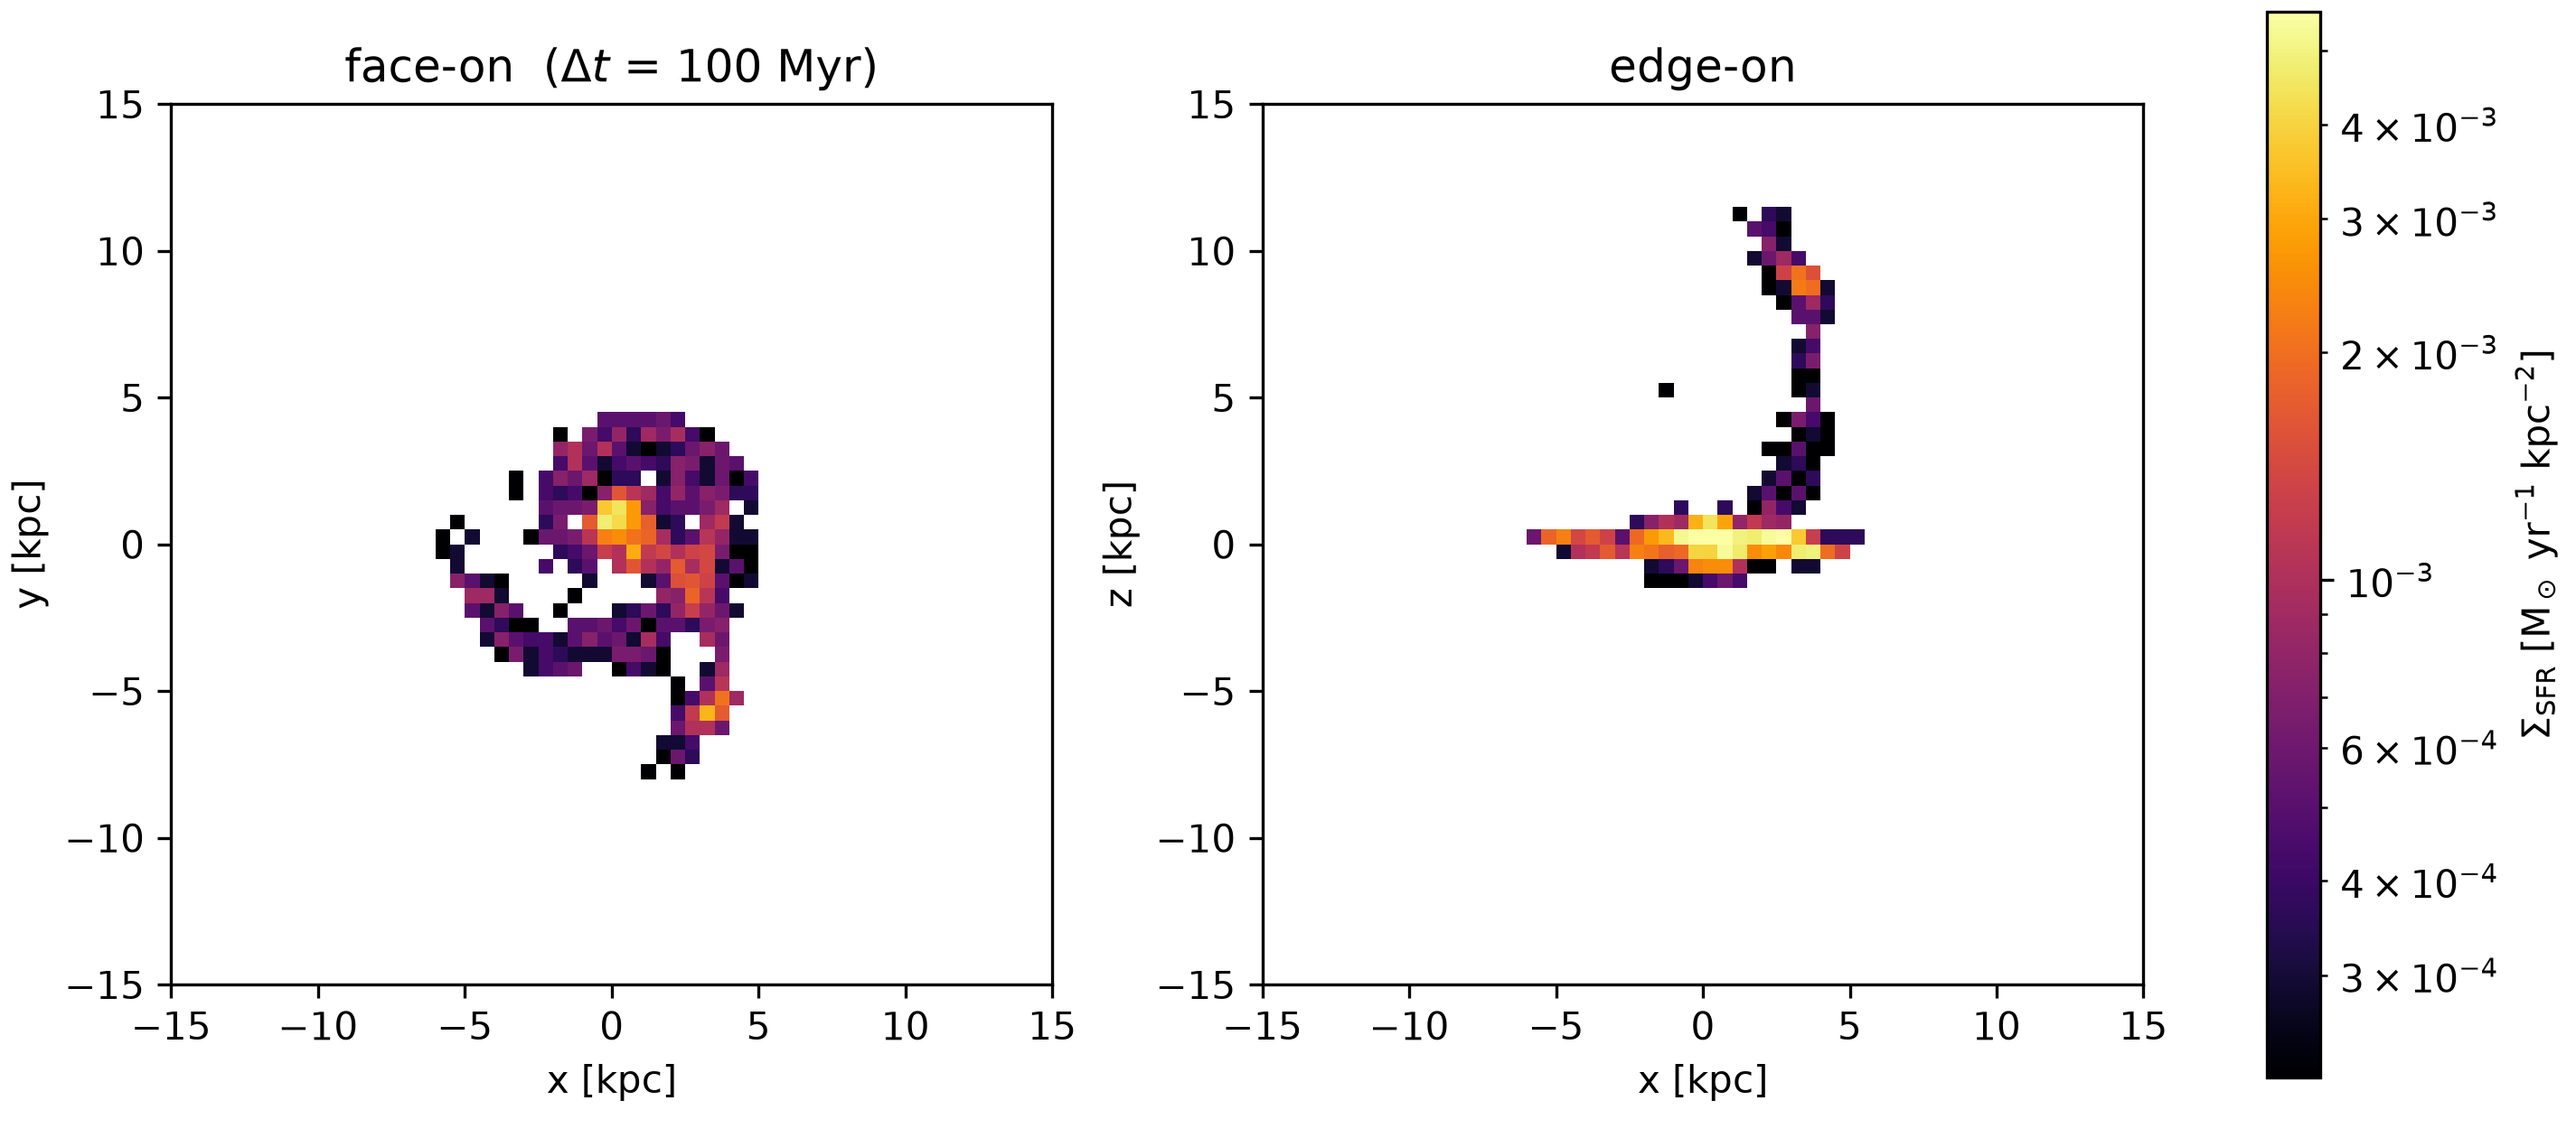
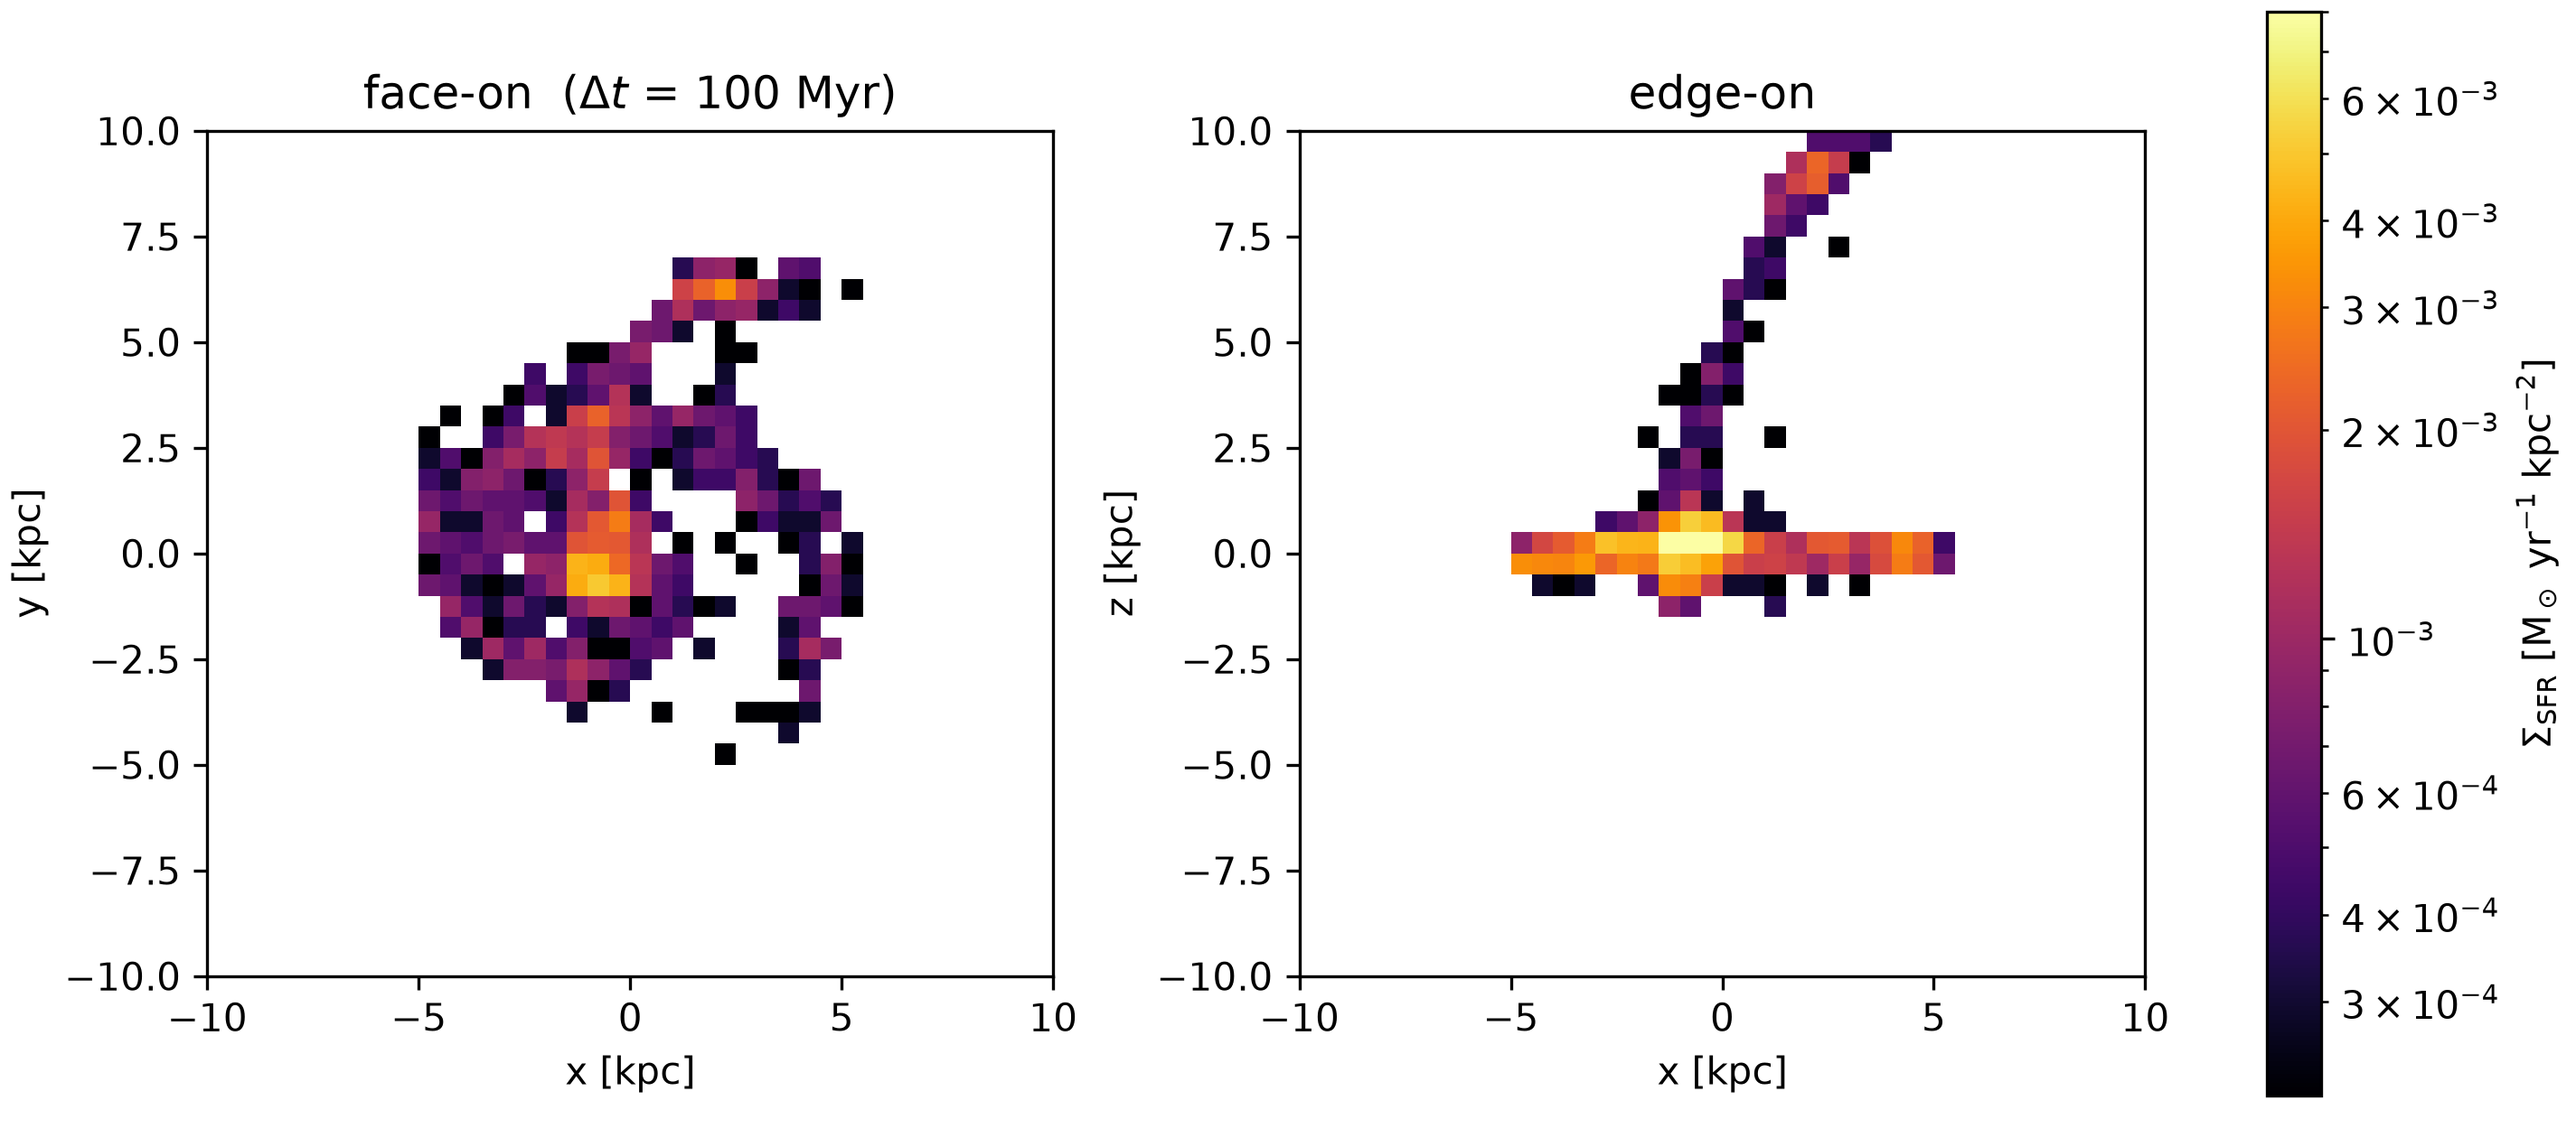
adjusted SFR plots of B12 to match what himansh produces with clouds_demo

diff --git a/scripts/sfr_maps_b12.py b/scripts/sfr_maps_b12.py
@@ -4,7 +4,7 @@ import os
 from pygadgetreader import readheader, readsnap
 
 from amms.core.analysis.frames import Frame
-from amms.core.analysis.sfr import sfr_map_from_young_stars
+from amms.core.analysis.sfr import sfr_map_from_young_stars, sfh
 from amms.core.datasets import b12
 
 #TODO move to config.paths
@@ -15,7 +15,9 @@ OUT = Path(os.environ.get("AMMS_PRODUCTS", "/xdisk/gbesla/zvladimir/products")) 
 # Don't use the young stars as they are sparse and disturbed
 d_pid = readsnap(SNAP, "pid", "disk")
 sel = b12.galaxy_mask(d_pid, "lmc")
-frame = Frame.from_tracers(b12.to_kpc(readsnap(SNAP, "pos", "disk"))[sel], readsnap(SNAP, "vel", "disk")[sel], b12.to_msun(readsnap(SNAP, "mass", "disk"))[sel], r_axis=10.0, tracers="b12_lmc_disk_stars")
+frame = Frame.from_tracers(b12.to_kpc(readsnap(SNAP, "pos", "disk"))[sel], readsnap(SNAP, "vel", "disk")[sel], 
+                           b12.to_msun(readsnap(SNAP, "mass", "disk"))[sel], r_axis=10.0, tracers="b12_lmc_disk_stars", 
+                           reference=b12.PA_REFERENCE_CLOUDS_DEMO)
 
 print("center", frame.center, "vs precomputed", b12.LMC_CENTER_069)
 
@@ -30,10 +32,14 @@ t_now = float(b12.to_gyr(readheader(SNAP, "time")))
 age = t_now - b12.to_gyr(readsnap(SNAP, "age", "star"))[sel]
 
 # 3. Maps
-base = {"dataset": "b12_model2", "snapshot": 69, "galaxy": "lmc", "frame": frame.to_dict(), "t_now_gyr": t_now}
+base = {"dataset": "b12_model2", "snapshot": 69, "galaxy": "lmc", "frame": frame.to_dict(), "t_now_gyr": t_now, "pa_convention": "line_of_nodes_clouds_demo"}
 
 dt = 0.1
 for axes in ("xy", "xz"):
-    m = sfr_map_from_young_stars(pos, mass, age, dt=dt, axes=axes, extent=15.0, bins=60, meta=base)
+    m = sfr_map_from_young_stars(pos, mass, age, dt=dt, axes=axes, extent=10.0, bins=40, meta=base)
     print(axes, dt, "n_young", m.meta["n_young"], "filled px", int((m.counts > 0).sum()))
     m.save(f"{OUT}/lmc_069_sfr_{axes}_dt{int(dt * 1000)}myr.npz")
+
+edges, rates = sfh(age, mass, bins=40, range=(0.0, t_now))
+print(edges)
+print(rates)
